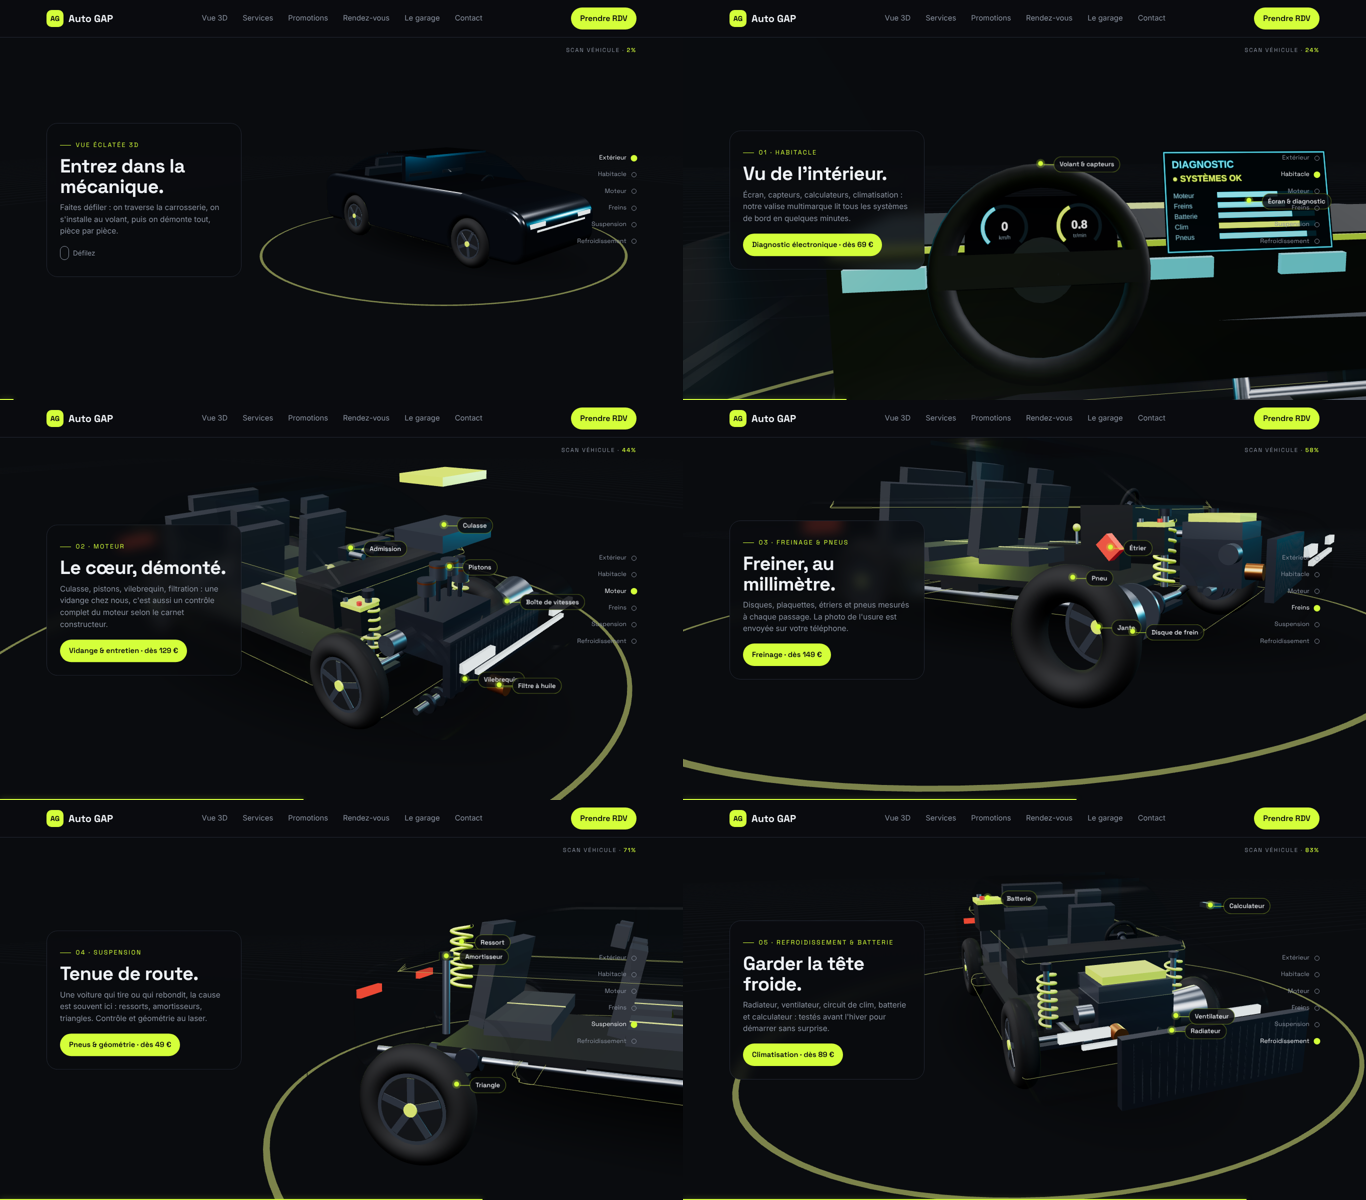
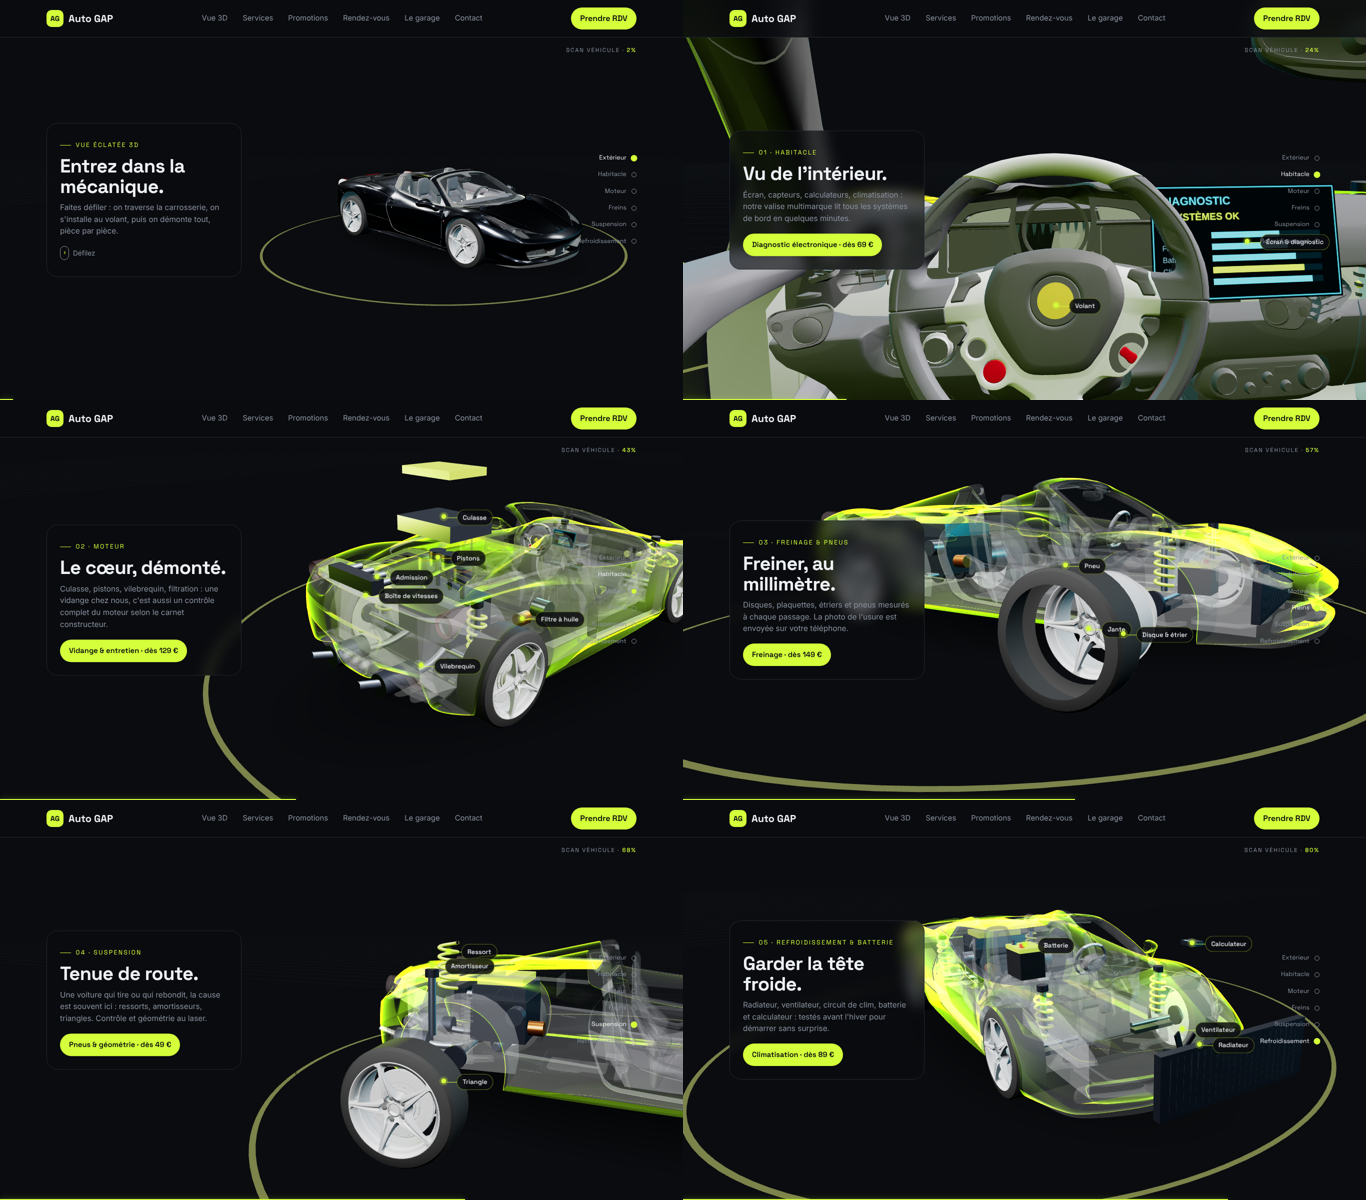
Site vitrine : modèle 3D réaliste chargé dans la vue éclatée, moteur central, rayons X
Claude-Session: https://claude.ai/code/session_013qBfzdRdnh3UgbwaeRUFXb

diff --git a/site-vitrine/index.html b/site-vitrine/index.html
@@ -793,6 +793,12 @@ $$('[data-count]').forEach(el=>co.observe(el));
 <script type="module">
 import * as THREE from 'three';
 import {RoomEnvironment} from 'three/addons/environments/RoomEnvironment.js';
+import {GLTFLoader} from 'three/addons/loaders/GLTFLoader.js';
+import {DRACOLoader} from 'three/addons/loaders/DRACOLoader.js';
+
+/* Modèle 3D réaliste (.glb). DÉMO : modèle d'exemple three.js, à remplacer par un modèle sous licence commerciale. */
+const CAR_MODEL_URL='https://cdn.jsdelivr.net/gh/mrdoob/three.js@r160/examples/models/gltf/ferrari.glb';
+const DRACO_URL='https://cdn.jsdelivr.net/npm/three@0.160.0/examples/jsm/libs/draco/gltf/';
 
 const sec=document.getElementById('xray'), stick=document.getElementById('xrStick');
 let renderer;
@@ -911,7 +917,7 @@ mesh(box(.7,.2,.22),M.black,.42,.58,0,inter);
 mesh(cyl(.012,.012,.14,8),M.steel,.3,.74,0,inter);mesh(new THREE.SphereGeometry(.035,16,12),M.accent,.3,.82,0,inter);
 
 /* ---------- Moteur ---------- */
-const eng=group(1.6,.6,0);
+const eng=group(-1.15,.55,0);
 const block=mesh(box(.46,.34,.62),M.dark,0,0,0,eng);
 const head=mesh(box(.44,.12,.6),M.steel,0,.23,0,eng);ex(head,'engine',0,.5,0);
 const cover=mesh(box(.38,.06,.52),M.accent,0,.32,0,eng);ex(cover,'engine',0,.82,0);
@@ -929,20 +935,21 @@ tag('Culasse',head,'engine',0,.06,0);tag('Pistons',pistons[1],'engine');tag('Vil
 tag('Filtre à huile',oil,'engine');tag('Admission',intake,'engine',0,.05,.2);tag('Boîte de vitesses',gbx,'engine');
 
 /* ---------- Refroidissement & électronique ---------- */
-const rad=group(2.08,.6,0);mesh(box(.06,.4,1.2),M.dark,0,0,0,rad);mesh(box(.045,.34,1.1),M.cyan,0,0,0,rad).material=M.cyan;
+const rad=group(2.0,.45,0);mesh(box(.06,.4,1.2),M.dark,0,0,0,rad);mesh(box(.045,.34,1.1),M.cyan,0,0,0,rad).material=M.cyan;
 for(let i=0;i<22;i++)mesh(box(.05,.34,.008),M.steel,.005,0,-.52+i*.05,rad);
 ex(rad,'cool',.85,.15,0);
-const fan=group(1.98,.6,0);mesh(box(.03,.36,.36),M.black,0,0,0,fan).visible=false;
+const fan=group(1.9,.45,0);mesh(box(.03,.36,.36),M.black,0,0,0,fan).visible=false;
 const blades=group(0,0,0,fan);for(let i=0;i<6;i++){const b=mesh(box(.012,.15,.06),M.black,0,.09,0,blades);const piv=new THREE.Group();piv.rotation.x=i*Math.PI/3;piv.add(b);blades.add(piv);b.rotation.y=.4}
 mesh(alongX(cyl(.04,.04,.05)),M.accent,0,0,0,fan);ex(fan,'cool',.45,.05,0);
-const batt=group(1.28,.78,.6);mesh(box(.24,.2,.18),M.black,0,0,0,batt);mesh(box(.245,.03,.185),M.accent,0,.1,0,batt);
+const batt=group(1.55,.5,.42);mesh(box(.24,.2,.18),M.black,0,0,0,batt);mesh(box(.245,.03,.185),M.accent,0,.1,0,batt);
 mesh(cyl(.018,.018,.04,10),M.red,.07,.12,.05,batt);mesh(cyl(.018,.018,.04,10),M.steel,-.07,.12,.05,batt);ex(batt,'cool',0,.6,.35);
-const ecu=group(1.28,.8,-.6);mesh(box(.16,.04,.12),M.dark,0,0,0,ecu);mesh(box(.12,.042,.02),M.cyan,0,0,.04,ecu);ex(ecu,'cool',0,.55,-.35);
+const ecu=group(1.55,.52,-.42);mesh(box(.16,.04,.12),M.dark,0,0,0,ecu);mesh(box(.12,.042,.02),M.cyan,0,0,.04,ecu);ex(ecu,'cool',0,.55,-.35);
 tag('Radiateur',rad,'cool',0,.2,.3);tag('Ventilateur',fan,'cool',0,.18,0);tag('Batterie',batt,'cool',0,.12,0);tag('Calculateur',ecu,'cool');
 
 /* ---------- Roues, freins, suspension ---------- */
+const V3=(x,y,z)=>new THREE.Vector3(x,y,z);
 class Helix extends THREE.Curve{constructor(r,h,t){super();this.r=r;this.h=h;this.t=t}getPoint(u,o=new THREE.Vector3()){const a=u*Math.PI*2*this.t;return o.set(Math.cos(a)*this.r,u*this.h-this.h/2,Math.sin(a)*this.r)}}
-const springGeo=new THREE.TubeGeometry(new Helix(.07,.42,6),220,.012,8,false);
+const springGeo=new THREE.TubeGeometry(new Helix(.065,.32,5),200,.012,8,false);
 function corner(x,z,expl){
   const s=Math.sign(z),C={};
   const w=group(x,.36,z);
@@ -956,8 +963,8 @@ function corner(x,z,expl){
   C.disc=mesh(alongZ(cyl(.18,.18,.022,40)),M.steel,0,0,-s*.03,w);
   mesh(alongZ(cyl(.09,.09,.03,24)),M.dark,0,0,-s*.03,C.disc.parent===w?w:w);
   C.cal=mesh(box(.1,.13,.07),M.red,-.12,.12,-s*.03,w);C.cal.rotation.z=.75;
-  C.spring=mesh(springGeo,M.accent,x,.7,z-s*.24);
-  C.shock=group(x,.7,z-s*.24);mesh(cyl(.026,.026,.5,12),M.steel,0,0,0,C.shock);mesh(cyl(.045,.045,.05,16),M.dark,0,.26,0,C.shock);
+  C.spring=mesh(springGeo,M.accent,x,.62,z-s*.24);
+  C.shock=group(x,.62,z-s*.24);mesh(cyl(.026,.026,.4,12),M.steel,0,0,0,C.shock);mesh(cyl(.045,.045,.05,16),M.dark,0,.21,0,C.shock);
   C.arm=mesh(box(.08,.035,.42),M.dark,x,.3,z-s*.3);
   mesh(alongZ(cyl(.022,.022,.42,10)),M.steel,x,.36,z-s*.32);
   if(expl==='wheel'){
@@ -974,11 +981,9 @@ function corner(x,z,expl){
 const wheels=[corner(1.35,.8,'wheel'),corner(1.35,-.8),corner(-1.35,.8,'susp'),corner(-1.35,-.8)];
 
 /* Échappement, réservoir, transmissions */
-const exPath=new THREE.CatmullRomCurve3([new THREE.Vector3(1.42,.42,.26),new THREE.Vector3(1.15,.22,.22),new THREE.Vector3(0,.2,.28),new THREE.Vector3(-1.5,.22,.3),new THREE.Vector3(-2.28,.26,.42)]);
-mesh(new THREE.TubeGeometry(exPath,80,.03,10,false),M.steel);
-mesh(alongX(cyl(.1,.1,.46,24)),M.dark,-1.6,.23,.3);
-mesh(box(.45,.16,.8),M.black,-.75,.32,-.05);
-[-1,1].forEach(s=>mesh(alongZ(cyl(.025,.025,.5,10)),M.steel,1.35,.36,s*.5));
+[-1,1].forEach(s=>{const ep=new THREE.CatmullRomCurve3([V3(-1.2,.42,s*.2),V3(-1.55,.3,s*.26),V3(-1.95,.33,s*.3),V3(-2.22,.4,s*.3)]);
+  mesh(new THREE.TubeGeometry(ep,60,.03,10,false),M.steel);mesh(alongX(cyl(.09,.09,.3,24)),M.dark,-1.9,.33,s*.3)});
+[-1,1].forEach(s=>mesh(alongZ(cyl(.025,.025,.5,10)),M.steel,-1.35,.36,s*.5));
 
 /* Plan de scan */
 const scan=new THREE.Mesh(new THREE.PlaneGeometry(2.3,1.9),new THREE.MeshBasicMaterial({color:0xD4FF3A,transparent:true,opacity:0,side:THREE.DoubleSide,blending:THREE.AdditiveBlending,depthWrite:false}));
@@ -988,20 +993,65 @@ const scanLine=new THREE.LineSegments(new THREE.EdgesGeometry(new THREE.BoxGeome
 /* Étiquettes interactives (habitacle) */
 tag('Écran & diagnostic',scr,'interior');tag('Volant & capteurs',sw,'interior',0,.17,0);tag('Climatisation',vents[3],'interior');
 
+/* ---------- Modèle réaliste ---------- */
+const shellMats=[],interMats=[];let glb=null;
+const xrayMat=new THREE.ShaderMaterial({uniforms:{c:{value:new THREE.Color(0xD4FF3A)},o:{value:0}},
+  vertexShader:'varying vec3 vN;varying vec3 vV;void main(){vec4 mv=modelViewMatrix*vec4(position,1.);vN=normalize(normalMatrix*normal);vV=normalize(-mv.xyz);gl_Position=projectionMatrix*mv;}',
+  fragmentShader:'uniform vec3 c;uniform float o;varying vec3 vN;varying vec3 vV;void main(){float f=pow(1.-abs(dot(vN,vV)),2.2);gl_FragColor=vec4(c*(f*1.3+.03),(f+.03)*o);}',
+  transparent:true,depthWrite:false,blending:THREE.AdditiveBlending,side:THREE.DoubleSide});
+const hud=document.getElementById('xrPct');
+const draco=new DRACOLoader().setDecoderPath(DRACO_URL);
+new GLTFLoader().setDRACOLoader(draco).load(CAR_MODEL_URL,gltf=>{
+  const m=gltf.scene;m.rotation.y=-Math.PI/2;m.position.x=.17;car.add(m);glb=m;
+  const INTERIOR=/^(leather|interior_dark|interior_light|carpet)$/;
+  const paint=new THREE.MeshPhysicalMaterial({color:0x1e252e,metalness:.9,roughness:.32,clearcoat:1,clearcoatRoughness:.06});
+  m.getObjectByName('main').children.forEach(o=>{
+    if(!o.isMesh)return;
+    if(o.name==='yellow_trim'||o.name==='blue'){o.visible=false;return}
+    if(INTERIOR.test(o.name)){o.material=o.material.clone();o.material.transparent=true;interMats.push(o.material);return}
+    if(o.name==='body'){o.material=paint;o.add(new THREE.Mesh(o.geometry,xrayMat))}
+    o.material=o.material.clone();o.material.transparent=true;
+    if(o.name==='glass'){o.material.color.set(0x0b1218);o.material.opacity=.6;o.material.depthWrite=false}
+    shellMats.push({mat:o.material,base:o.material.opacity});
+  });
+  /* on masque la carrosserie et les roues simplifiées */
+  [shell,glass,roof,pillar,...edges].forEach(o=>o.visible=false);
+  car.children.filter(o=>o.isMesh&&(o.material===M.light||o.material===M.tail)).forEach(o=>o.visible=false);
+  inter.children.forEach(o=>{if(o!==scr)o.visible=false});
+  scr.position.set(.62,.84,-.08);scr.scale.setScalar(.8);
+  m.traverse(o=>{if(/^centre/.test(o.name))o.visible=false});
+  wheels.forEach(w=>[w.spin,w.disc,w.cal].forEach(o=>o.visible=false));
+  for(let i=parts.length-1;i>=0;i--){const o=parts[i].obj;if(wheels.some(w=>[w.spin,w.disc,w.cal].includes(o)))parts.splice(i,1)}
+  for(let i=tags.length-1;i>=0;i--){if(['Pneu','Jante','Disque de frein','Étrier','Volant & capteurs','Climatisation'].includes(tags[i].label)){tags[i].el?.remove();tags.splice(i,1)}}
+  /* roue avant droite : vue éclatée */
+  const fr=m.getObjectByName('wheel_fr');
+  fr.children.forEach(c=>{const n=c.name;const d=n.startsWith('tire')?.95:n.startsWith('brake')?.32:.62;ex(c,'wheel',d,0,0)});
+  const tire=fr.children.find(c=>c.name.startsWith('tire')),rim=fr.children.find(c=>c.name.startsWith('rim')),brk=fr.children.find(c=>c.name.startsWith('brake'));
+  addTag('Pneu',tire,'wheel',0,.36,0);addTag('Jante',rim,'wheel');addTag('Disque & étrier',brk,'wheel',0,-.12,0);
+  /* roue arrière droite écartée pour montrer la suspension */
+  ex(m.getObjectByName('wheel_rr'),'susp',.9,0,0);
+  glbWheels=['wheel_fl','wheel_fr','wheel_rl','wheel_rr'].map(n=>m.getObjectByName(n));
+  addTag('Volant',m.getObjectByName('steering_wheel'),'interior',0,.15,0);
+  sec.classList.add('glb-ready');
+},xhr=>{if(xhr.total)hud.textContent='modèle '+Math.round(xhr.loaded/xhr.total*100)+'%'},err=>console.warn('Modèle 3D non chargé, version simplifiée utilisée',err));
+let glbWheels=[];
+
 /* ---------- Étiquettes HTML ---------- */
 const tagLayer=document.getElementById('tags3d');
-tags.forEach(t=>{t.el=document.createElement('div');t.el.className='tag3d';t.el.innerHTML=`<i></i><span>${t.label}</span>`;tagLayer.appendChild(t.el)});
+const mkTag=t=>{t.el=document.createElement('div');t.el.className='tag3d';t.el.innerHTML=`<i></i><span>${t.label}</span>`;tagLayer.appendChild(t.el)};
+tags.forEach(mkTag);
+function addTag(label,obj,g,dx=0,dy=0,dz=0){tag(label,obj,g,dx,dy,dz);mkTag(tags[tags.length-1])}
 
 /* ---------- Chorégraphie ---------- */
 const V=(x,y,z)=>new THREE.Vector3(x,y,z);
 const K=[
   [0   ,V(6.2,2.3,6.2),  V(0,.7,0)],
   [.1  ,V(4.4,1.9,4.6),  V(.2,.8,0)],
-  [.2  ,V(-.16,1.2,-.38),V(1.6,1.0,-.3)],
-  [.29 ,V(-.18,1.22,-.34),V(1.2,.94,.3)],
-  [.36 ,V(.1,1.45,-.1),  V(1.7,.8,0)],
-  [.45 ,V(3.9,2.2,3.0),  V(1.6,.8,0)],
-  [.51 ,V(3.4,2.8,2.5),  V(1.6,.85,0)],
+  [.2  ,V(-.05,.98,-.35),V(1.6,.8,-.3)],
+  [.29 ,V(-.08,1.0,-.3), V(1.2,.74,.35)],
+  [.36 ,V(.6,1.7,.6),    V(-1.0,.6,0)],
+  [.45 ,V(-3.9,2.2,2.9), V(-1.15,.65,0)],
+  [.51 ,V(-3.3,2.8,2.3), V(-1.15,.7,0)],
   [.58 ,V(2.7,1.0,3.9),  V(1.35,.45,1.15)],
   [.63 ,V(2.2,.9,4.1),  V(1.35,.45,1.2)],
   [.69 ,V(-.1,1.5,4.3),V(-1.35,.85,1.05)],
@@ -1056,16 +1106,18 @@ function frame(){
   parts.forEach(o=>o.obj.position.copy(o.base).addScaledVector(o.v,W[o.g]));
   M.body.opacity=1-X*.94;M.body.depthWrite=X<.02;
   M.glass.opacity=.55-X*.47;edgeMat.opacity=.12+X*.6;
+  shellMats.forEach(s=>{s.mat.opacity=s.base*(1-X*.97);s.mat.depthWrite=X<.02&&s.base===1});xrayMat.uniforms.o.value=X;
+  const io=1-X*(1-W.interior)*.75;interMats.forEach(m=>{m.opacity=io;m.depthWrite=io>.98});
   const s=clamp((p-.08)/.1);scan.position.x=scanLine.position.x=2.5-5*s;
   scan.material.opacity=s>0&&s<1?Math.sin(s*Math.PI)*.06:0;scanLine.material.opacity=s>0&&s<1?Math.sin(s*Math.PI):0;
   /* animations mécaniques */
   pistons.forEach((pi,i)=>pi.position.y=Math.sin(time*7+(i%3?Math.PI:0))*.045);
   crank.rotation.z=time*7;blades.rotation.x=time*(4+W.cool*6);
-  const roll=(p<.1||p>.92)?time*1.2:0;wheels.forEach(w=>w.spin.rotation.z=-roll);
+  const roll=(p<.1||p>.92)?time*1.2:0;wheels.forEach(w=>w.spin.rotation.z=-roll);glbWheels.forEach(w=>w.rotation.x=roll);
   car.position.y=Math.sin(time*1.4)*.006*(1-X);
   /* caméra */
   camAt(p,P,T);
-  if(aspectK!==1){tmp.subVectors(P,T).multiplyScalar(aspectK*(1-W.interior*.8)+W.interior*.8);P.copy(T).add(tmp)}
+  if(aspectK!==1){tmp.subVectors(P,T).multiplyScalar(aspectK+(1-aspectK)*W.interior);P.copy(T).add(tmp)}
   camera.position.copy(P);camera.lookAt(T);
   renderer.render(scene,camera);
   /* étiquettes */
@@ -1077,7 +1129,7 @@ function frame(){
   });
   cards.forEach(c=>c.classList.toggle('on',p>=+c.dataset.a&&p<+c.dataset.b));
   let ri=0;railP.forEach((rp,i)=>{if(p>=rp-.07)ri=i});rail.forEach((b,i)=>b.classList.toggle('on',i===ri));
-  prog.style.width=(p*100)+'%';pct.textContent=Math.round(p*100)+'%';
+  prog.style.width=(p*100)+'%';if(glb||!/mod/.test(pct.textContent))pct.textContent=Math.round(p*100)+'%';
 }
 frame();
 }
